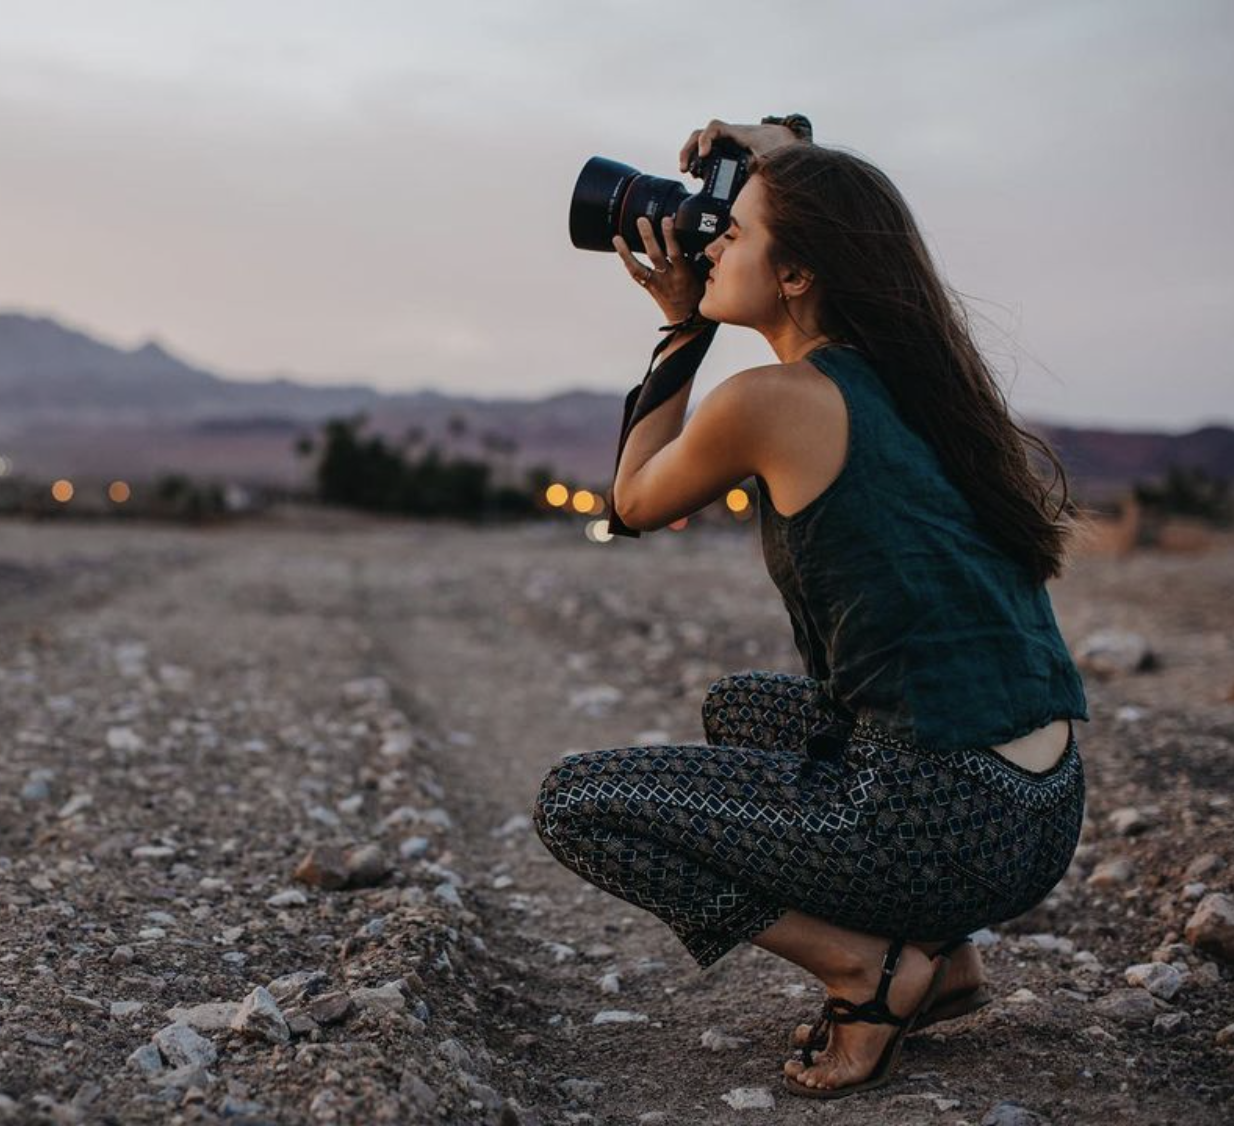
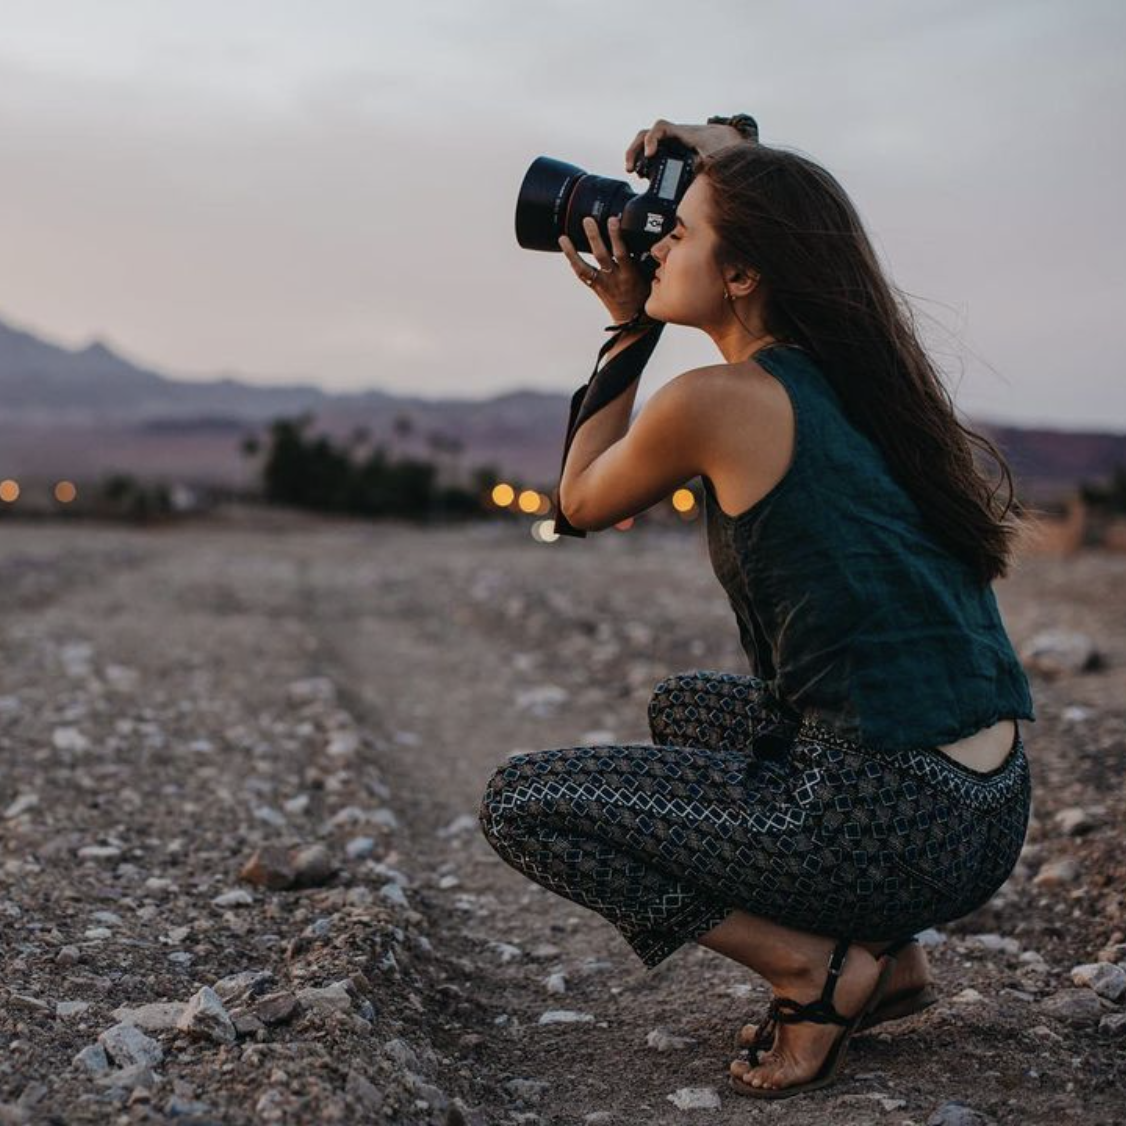
put routes to db completed

diff --git a/src/GalleryItem/GalleryItem.js b/src/GalleryItem/GalleryItem.js
@@ -15,24 +15,31 @@ function GalleryItem ( props ){
         setShow (!show);
     }
 
-    //create a variable called likes and set it's initial value to the current number of likes for that image. At the restart of the server, likes will go back to 0 as set on the gallery.data.
-    const[likes, setLikes]=useState(props.imagesSentToGalleryItem.likes);
+    //create a const called image and give set it's initial val to an object that has all of it's info from the props passed from the database and GalleyList. 
+    const[image, setImage ] = useState ( {
+        id: props.imagesSentToGalleryItem.id,
+        path: props.imagesSentToGalleryItem.path,
+        description: props.imagesSentToGalleryItem.description,
+        likes: props.imagesSentToGalleryItem.likes
+    });
 
-
-    //create an addLike function 
-    //make an axios put request to update the likes on the server. 
+    //create an updateLikes function 
     const updateLikes =()=>{
-        //run an axios put request to the URL of /gallery/like/id (where id is set to props.image.id)
-        //we need the image.id to update the correct object as each id for each image will be unique.
-        Axios.put(`/gallery/like/${props.imagesSentToGalleryItem.id}`)
+        //use a spread operator to add a like to the images object 
+        setImage({
+            ...image, likes: ++image.likes
+        });
+        //run an axios put request to the URL of /gallery/like/id (where id is set to image.id) to send that information to the server which will send send it to the db to be updated. 
+        //anything to the right of the coma inside of the parentheses (images in the case) will be the req.body
+        Axios.put(`/gallery/like/${image.id}`, image)
             .then(response=>{
                 console.log(response);
             }).catch(error=>{
                 console.log(error);
             });
         //on click, add a like to the existing number of likes (props.image.likes)
-        setLikes (likes + 1);
     }
+
 
     return(
         <div>
@@ -49,13 +56,13 @@ function GalleryItem ( props ){
             }
                 {/* on click, run the update likes function */}
                 <button onClick={updateLikes}>Like</button>
-                {/* using a turnery operator, conditionally the word like if there is only one like and likes if there is 0 or more than 1 */}
+                {/* using a turnery operator, conditionally render the word "like" if there is only one like and "likes" if there is 0 or more than 1 */}
                 {/* is likes greater than 1? */}
-                {likes===1?
+                {image.likes===1?
                 // if it is, 
-                <h4>{likes} like </h4>:
+                <h4>{image.likes} like </h4>:
                 //else 
-                <h4>{likes} likes </h4>
+                <h4>{image.likes} likes </h4>
                 }
         </div>
     )

diff --git a/server/routes/gallery.router.js b/server/routes/gallery.router.js
@@ -1,33 +1,43 @@
 const express = require('express');
 const router = express.Router();
 const galleryItems = require('../modules/gallery.data');
+//require pool in order to establish a connection between the project and the db
 const pool = require('../modules/pool');
 
 
 // DO NOT MODIFY THIS FILE FOR BASE MODE
-
-// PUT Route
-router.put('/like/:id', (req, res) => {
-    console.log(req.params);
-    const galleryId = req.params.id;
-    for(const galleryItem of galleryItems) {
-        if(galleryItem.id == galleryId) {
-            galleryItem.likes += 1;
-        }
-    }
-    res.sendStatus(200);
-}); // END PUT Route
-
 // GET Route
 router.get('/', (req, res) => {
-    const queryString = `SELECT * FROM gallery`
+    //create a queryString to select all from gallery table 
+    const queryString = `SELECT * FROM gallery ORDER BY id DESC;`;
+    //pool sends a query (a commend that we want to do) to select all from the gallery and get the results
     pool.query( queryString ).then( (results)=>{
+        //respond with the results of all the rows in the db
         res.send(results.rows);
     }).catch( (err)=>{
         console.log(err);
         res.sendStatus( 500 );
     })
 }); // END GET Route
+
+
+/// PUT (req.query)
+router.put( '/like/:id', (req, res)=>{
+    console.log( '/like PUT req.body:', req.body);
+    //create a variable that stores all the likes 
+    const likes= req.body.likes;
+    //update name, description, and picture to the inputted text from the user 
+    //UPDATE the gallery table and set the likes column equal to the number of likes the image has WHERE the id column in the db matches the id of the image. 
+    const queryString = `UPDATE gallery SET likes='${likes}' WHERE id=${req.params.id}`;
+    //connect to the database with pool. Use .query to send the query string (the const we made in the line above) to the database.
+    pool.query( queryString ).then( (results)=>{
+      res.sendStatus( 200 );
+    }).catch( (err)=>{
+      console.log( err );
+      res.sendStatus( 500 );
+    })
+  })
+
 
 // POST Route
 router.post('/' ,(req,res)=>{

diff --git a/src/GalleryList/GalleryList.js b/src/GalleryList/GalleryList.js
@@ -9,7 +9,9 @@ function GalleryList ( props ){
             <h1>ImageList</h1>
             {/* map/loop through images array passes through as props. Then, for every individual image (it's url, description, name, etc..) in the array, run the GalleryItem component to pass the image down */}
             {/* key={image.id} is there to give a unique identifier to each mapped component */}
+            <div className="galleryContainer">
             { props.imagesSentToGalleryList.map( image=>(< GalleryItem imagesSentToGalleryItem={image} key={image.id} />))}
+            </div>
         </div>
     )
 }

diff --git a/src/components/App/App.css b/src/components/App/App.css
@@ -29,3 +29,25 @@
   box-shadow: 0 3px 13px 0 rgba(14, 9, 73, 0.2),
     0 11px 21px 0 rgba(255, 166, 220, 0.004);
 }
+
+
+  .galleryContainer{
+    display: flex;
+    /* flex-direction: column; */
+    justify-content: space-evenly;
+    flex-wrap: wrap;
+  }  
+
+
+.galleryContainer div {
+  width: 30%;
+  /* height: 300px; */
+  border:1px;
+  text-align: center;
+}
+
+img{
+  width: 100%;
+  /* height: 200px; */
+  object-fit: contain;
+}
